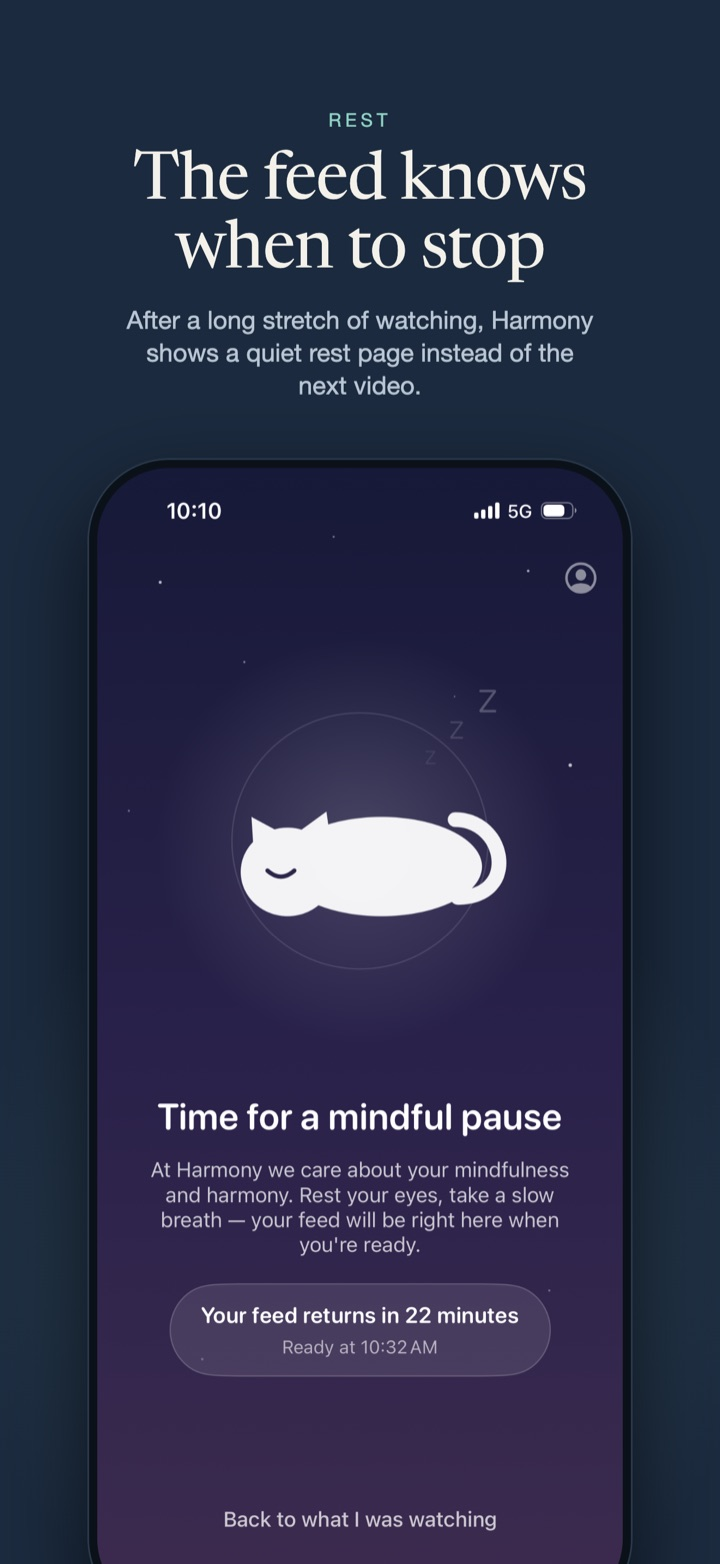
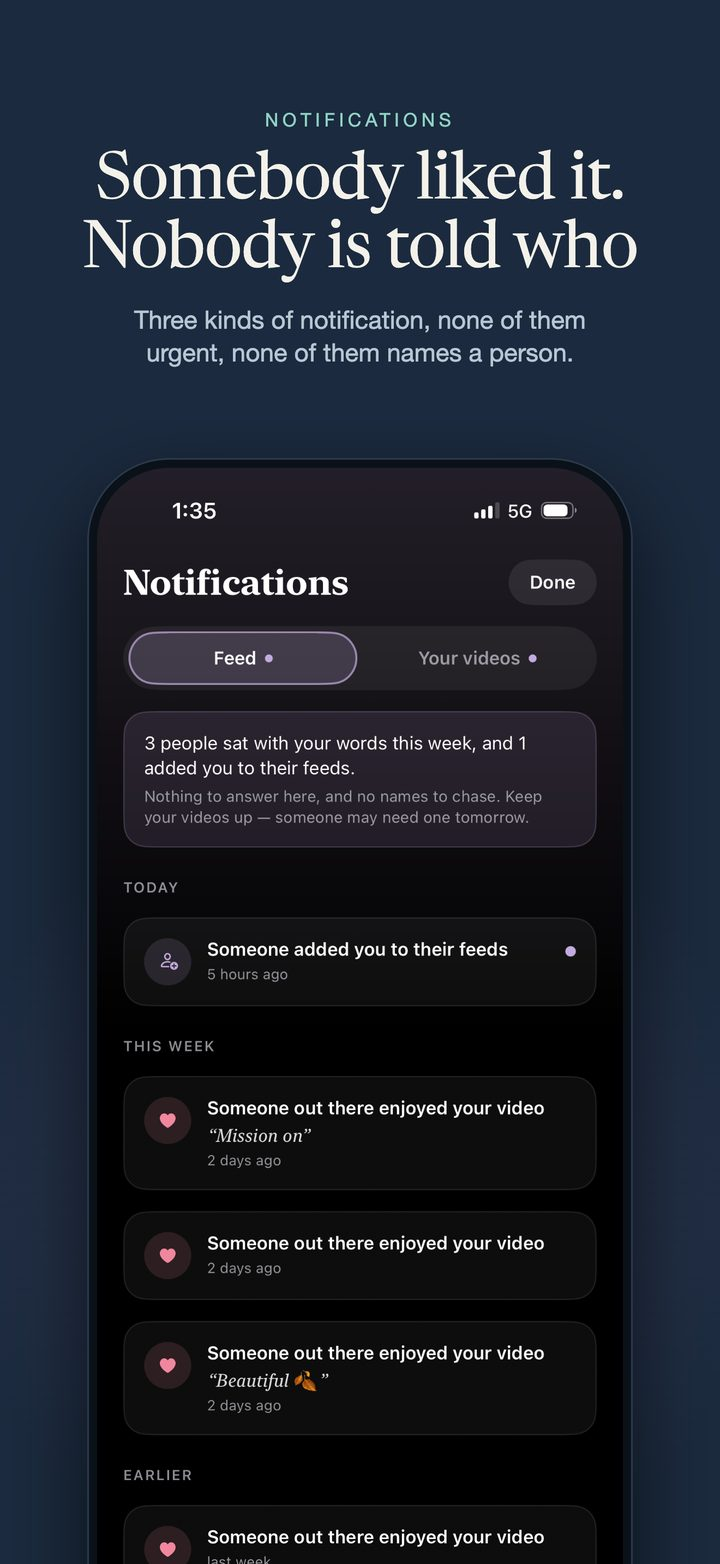
update Harmony screenshot and alt text in index.html

diff --git a/index.html b/index.html
@@ -141,7 +141,7 @@
                     <div class="product-screenshots">
                         <img src="/images/screenshots/harmony-1.jpg" alt="Harmony - Watch in Harmony, a quiet place for short videos">
                         <img src="/images/screenshots/harmony-2.jpg" alt="Harmony - No like counts, no comments">
-                        <img src="/images/screenshots/harmony-3.jpg" alt="Harmony - The feed knows when to stop, with a quiet rest page">
+                        <img src="/images/screenshots/harmony-3.jpg" alt="Harmony - Somebody liked it, nobody is told who: gentle, anonymous notifications">
                     </div>
                     <ul class="product-features">
                         <li>Every video is verified before it reaches the feed</li>
